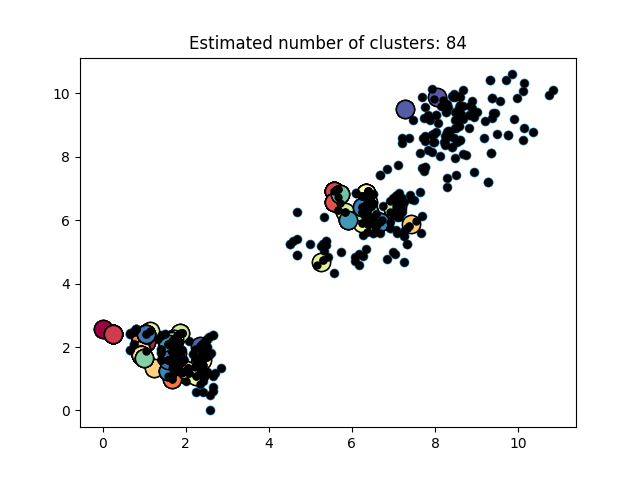
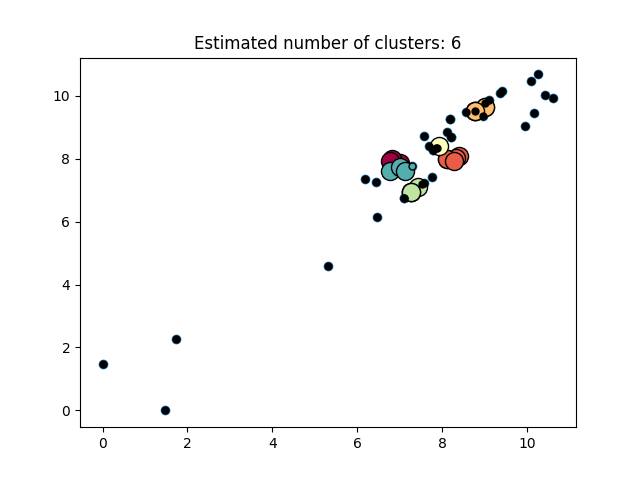
添加论文中的另外两类聚类算法

diff --git a/package_clustering.py b/package_clustering.py
@@ -128,7 +128,7 @@ def main():
     修改参数取样数量 和 数据包slice长度
     '''    
     head_length = 20
-    sample_nums = 1024
+    sample_nums = 60
 
     for file_name in file_name_list:
         last_directory = get_last_directory(file_name)
@@ -224,9 +224,10 @@ def main():
     print("Estimated number of clusters: %d" % n_clusters_)
     print("Estimated number of noise points: %d" % n_noise_)
     
-    print(f"Homogeneity: {metrics.homogeneity_score(labels_true, labels):.3f}")
-    print(f"Completeness: {metrics.completeness_score(labels_true, labels):.3f}")
-    print(f"V-measure: {metrics.v_measure_score(labels_true, labels):.3f}")
+    # 同质性（hom.）、完整性（com.）、V-度量（v.）、FMI和覆盖率（cov.）
+    print(f"Homogeneity(同质性): {metrics.homogeneity_score(labels_true, labels):.3f}")
+    print(f"Completeness(完整性): {metrics.completeness_score(labels_true, labels):.3f}")
+    print(f"V-measure(V-度量): {metrics.v_measure_score(labels_true, labels):.3f}")
     print(f"Adjusted Rand Index: {metrics.adjusted_rand_score(labels_true, labels):.3f}")
     print(
         "Adjusted Mutual Information:"
@@ -274,7 +275,61 @@ def main():
     plt.savefig("cluster_sample.png")  # 保存图片到文件
 
 
+    from scipy.spatial.distance import pdist
+    from scipy.cluster.hierarchy import linkage, fcluster
+    from sklearn_extra.cluster import KMedoids
+    from sklearn import metrics
 
+    # 计算距离矩阵
+    distance_matrix = pdist(MFD_matrix)
+
+    # UPGMA 聚类
+    Z = linkage(distance_matrix, method='average')
+    num_clusters = len(protocol_to_label_map)  #更改聚类数量
+    labels_upgma = fcluster(Z, num_clusters, criterion='maxclust') - 1  # 减1以使标签从0开始
+
+    # PAM 聚类
+    kmedoids = KMedoids(n_clusters=num_clusters, init='k-medoids++', random_state=42)
+    labels_pam = kmedoids.fit_predict(MFD_matrix)
+    
+    # 评价指标 - 同质性、完整性、V-度量、FMI 和覆盖率
+    hom_upgma, com_upgma, v_upgma = metrics.homogeneity_completeness_v_measure(labels_true, labels_upgma)
+    fmi_upgma = metrics.fowlkes_mallows_score(labels_true, labels_upgma)
+    cov_upgma = np.mean(labels_upgma == labels_true)
+
+    hom_pam, com_pam, v_pam = metrics.homogeneity_completeness_v_measure(labels_true, labels_pam)
+    fmi_pam = metrics.fowlkes_mallows_score(labels_true, labels_pam)
+    cov_pam = np.mean(labels_pam == labels_true)
+
+    print("UPGMA 聚类结果：")
+    print("同质性（homogeneity）：", hom_upgma)
+    print("完整性（completeness）：", com_upgma)
+    print("V-度量（v-measure）：", v_upgma)
+    print("FMI（Fowlkes-Mallows score）：", fmi_upgma)
+    print("覆盖率（coverage）：", cov_upgma)
+
+    print("\nPAM 聚类结果：")
+    print("同质性（homogeneity）：", hom_pam)
+    print("完整性（completeness）：", com_pam)
+    print("V-度量（v-measure）：", v_pam)
+    print("FMI（Fowlkes-Mallows score）：", fmi_pam)
+    print("覆盖率（coverage）：", cov_pam)
+    
+
+    # # 评价指标 - 调整兰德指数（ARI）和调整互信息（AMI）
+    # ari_upgma = metrics.adjusted_rand_score(labels_true, labels_upgma)
+    # ami_upgma = metrics.adjusted_mutual_info_score(labels_true, labels_upgma)
+
+    # ari_pam = metrics.adjusted_rand_score(labels_true, labels_pam)
+    # ami_pam = metrics.adjusted_mutual_info_score(labels_true, labels_pam)
+
+    # print("UPGMA 聚类结果：")
+    # print("调整兰德指数（ARI）：", ari_upgma)
+    # print("调整互信息（AMI）：", ami_upgma)
+
+    # print("\nPAM 聚类结果：")
+    # print("调整兰德指数（ARI）：", ari_pam)
+    # print("调整互信息（AMI）：", ami_pam)
     
     
     

diff --git a/plot_dbscan.py b/plot_dbscan.py
@@ -52,7 +52,6 @@ from sklearn import metrics
 db = DBSCAN(eps=0.3, min_samples=10).fit(X)
 labels = db.labels_
 
-
 # Number of clusters in labels, ignoring noise if present.
 n_clusters_ = len(set(labels)) - (1 if -1 in labels else 0)
 n_noise_ = list(labels).count(-1)
